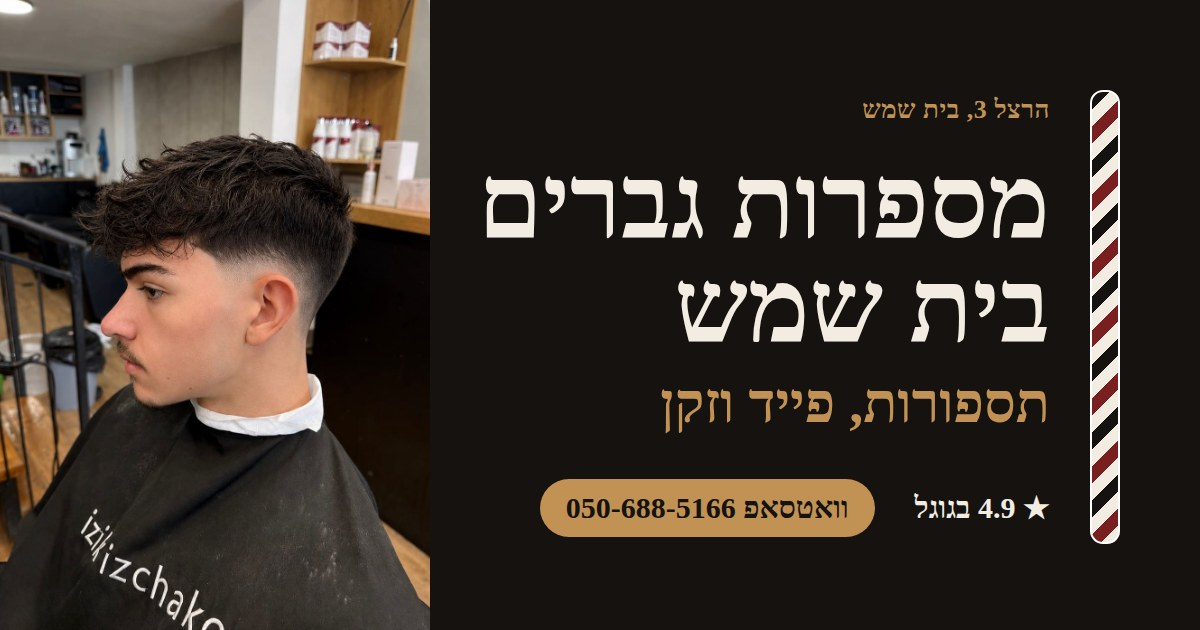
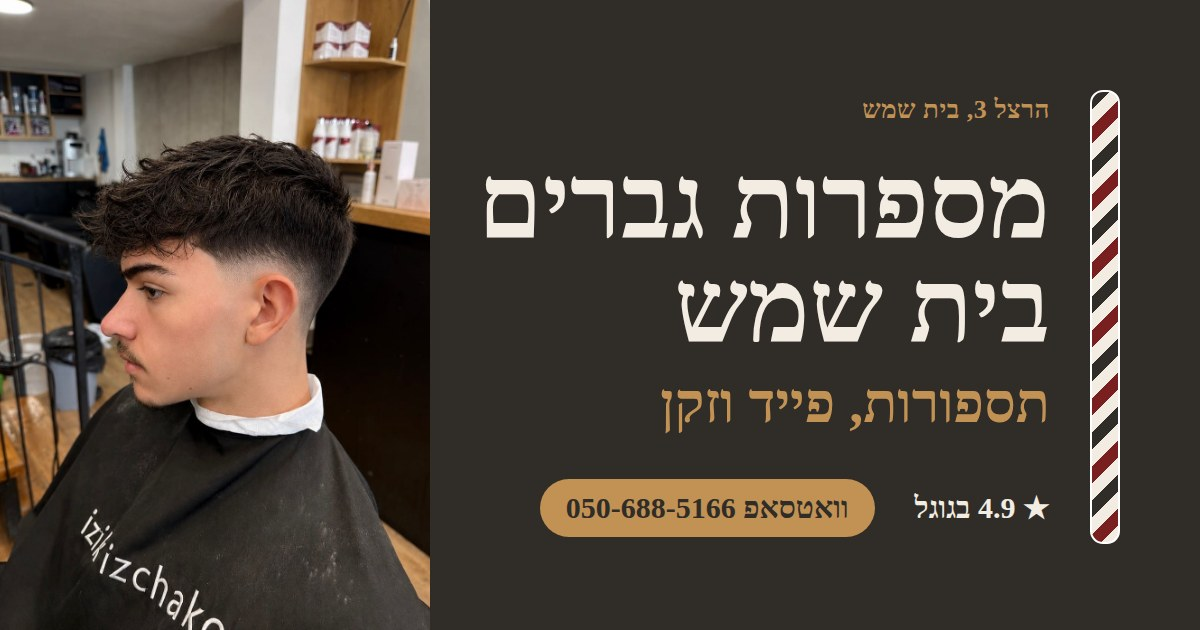
Lighten the dark background
Swap the near-black espresso for a softer warm charcoal (#302c28),
keeping the brass accents. Text contrast stays at AA.

Claude-Session: https://claude.ai/code/session_013PrRigdDUAYThKsPQbMB6r

diff --git a/src/index.css b/src/index.css
@@ -4,16 +4,16 @@
 
 /*
  * Palette — "espresso & brass". Every text pairing below was checked for WCAG AA:
- *   bone on ink ........ 15.6:1     brass on ink ....... 6.7:1
- *   stone on ink ....... 8.2:1      ink on bone ........ 15.6:1
+ *   bone on ink ........ 11.8:1     brass on ink ....... 5.0:1
+ *   stone on ink ....... 6.1:1      ink on bone ........ 11.8:1
  *   brass-deep on bone . 5.5:1      umber on bone ...... 6.2:1
  *   ink on brass ....... 6.7:1
  */
 @layer base {
   :root {
-    --ink: 30 17% 7%; /* #15120F */
-    --ink-soft: 30 12% 11%; /* #201c19 */
-    --ink-line: 32 12% 20%;
+    --ink: 30 9% 17%; /* #302c28 */
+    --ink-soft: 30 8% 22%; /* #3b3733 */
+    --ink-line: 30 7% 31%;
     --bone: 38 36% 92%; /* #F2ECE2 */
     --paper: 40 45% 96%; /* #FAF6EF */
     --brass: 34 47% 55%; /* #C29255 */

diff --git a/index.html b/index.html
@@ -16,7 +16,7 @@
     <title>מספרות גברים בית שמש | איציק, הרצל 3</title>
     <meta name="description" content="מספרת גברים בהרצל 3, בית שמש. תספורות, פייד וזקן. פתוח א׳-ה׳ 08:00-21:00, ו׳ עד 14:30. טלפון ו־WhatsApp: 050-688-5166." />
     <meta name="author" content="מספרות גברים בית שמש" />
-    <meta name="theme-color" content="#15120F" />
+    <meta name="theme-color" content="#302C28" />
     <meta name="format-detection" content="telephone=yes" />
     <meta name="robots" content="index, follow, max-image-preview:large" />
     <!-- When the site gets its final domain, add: <link rel="canonical" href="https://YOUR-DOMAIN/" /> and make og:url / og:image absolute. -->
